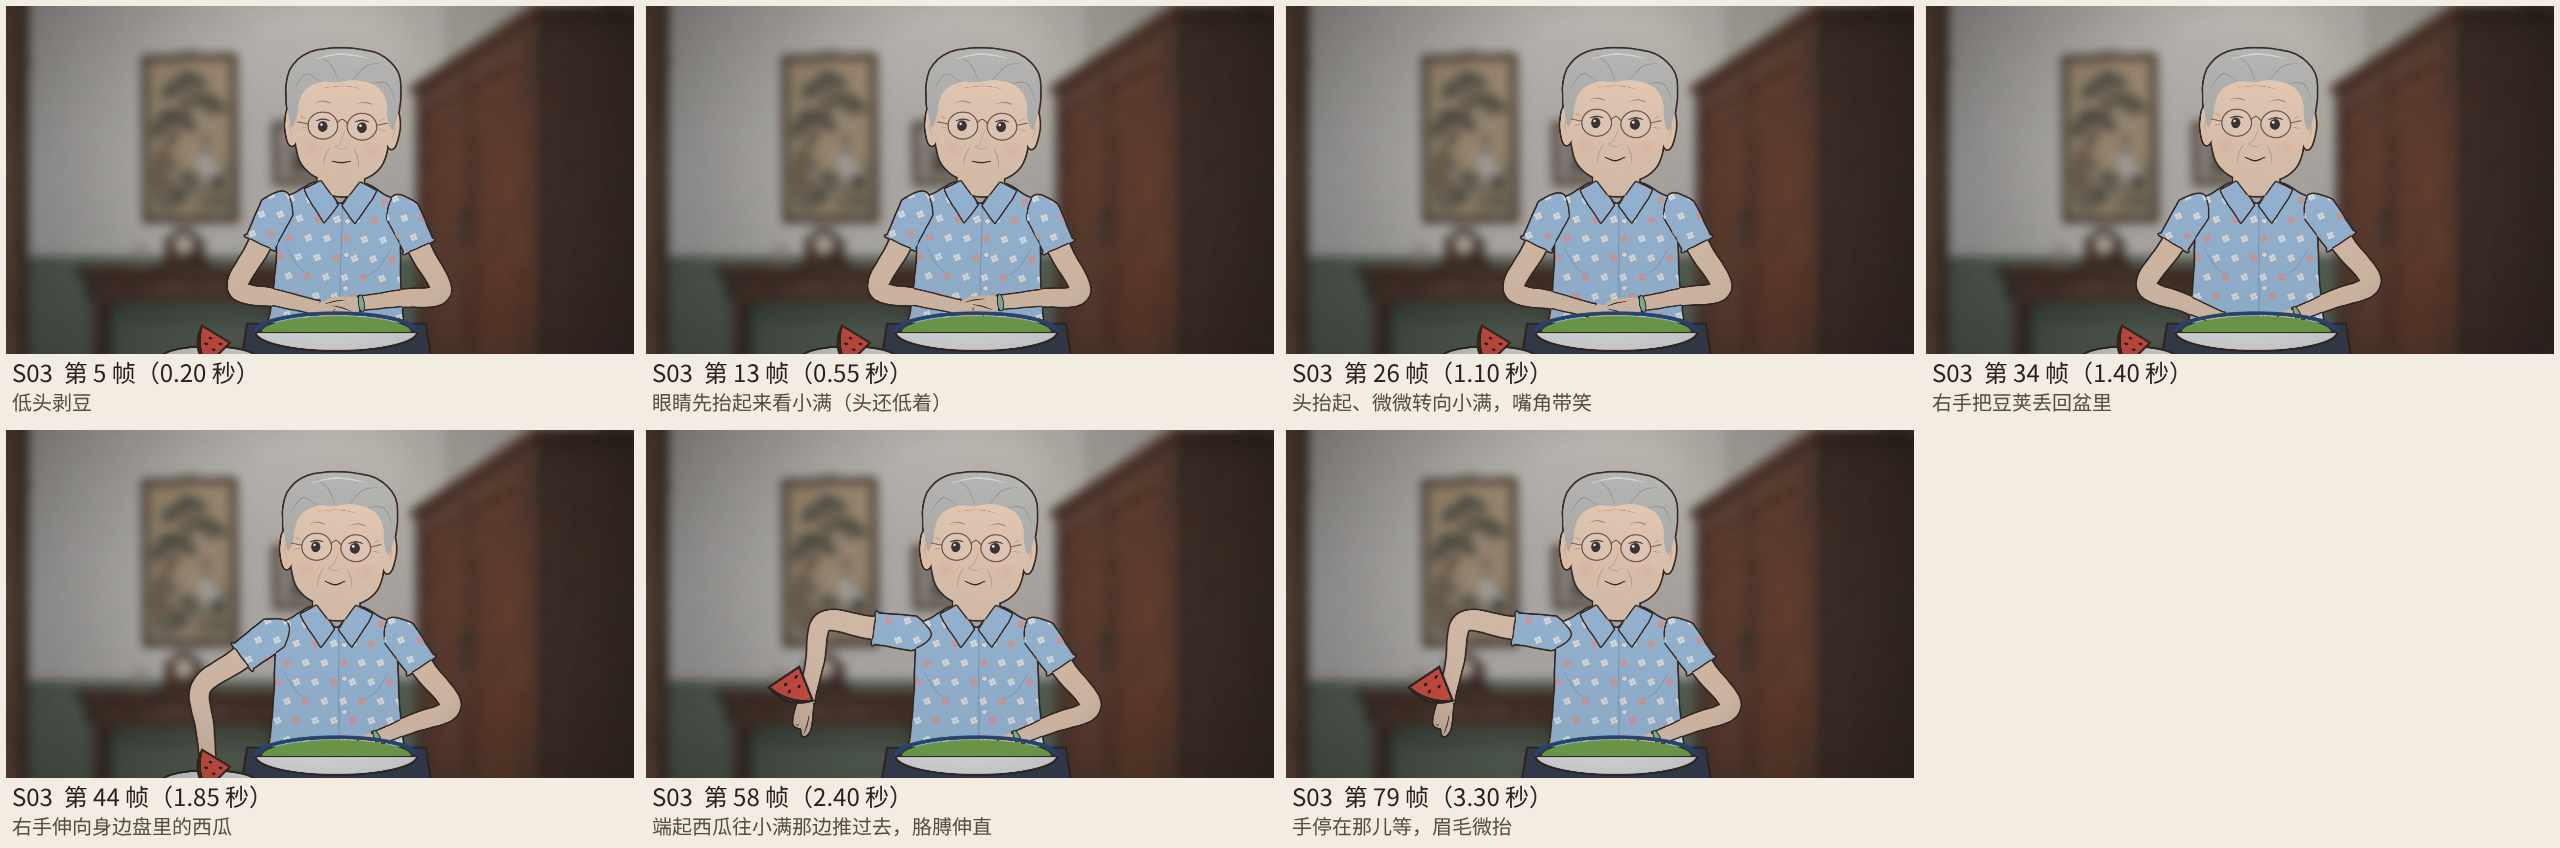
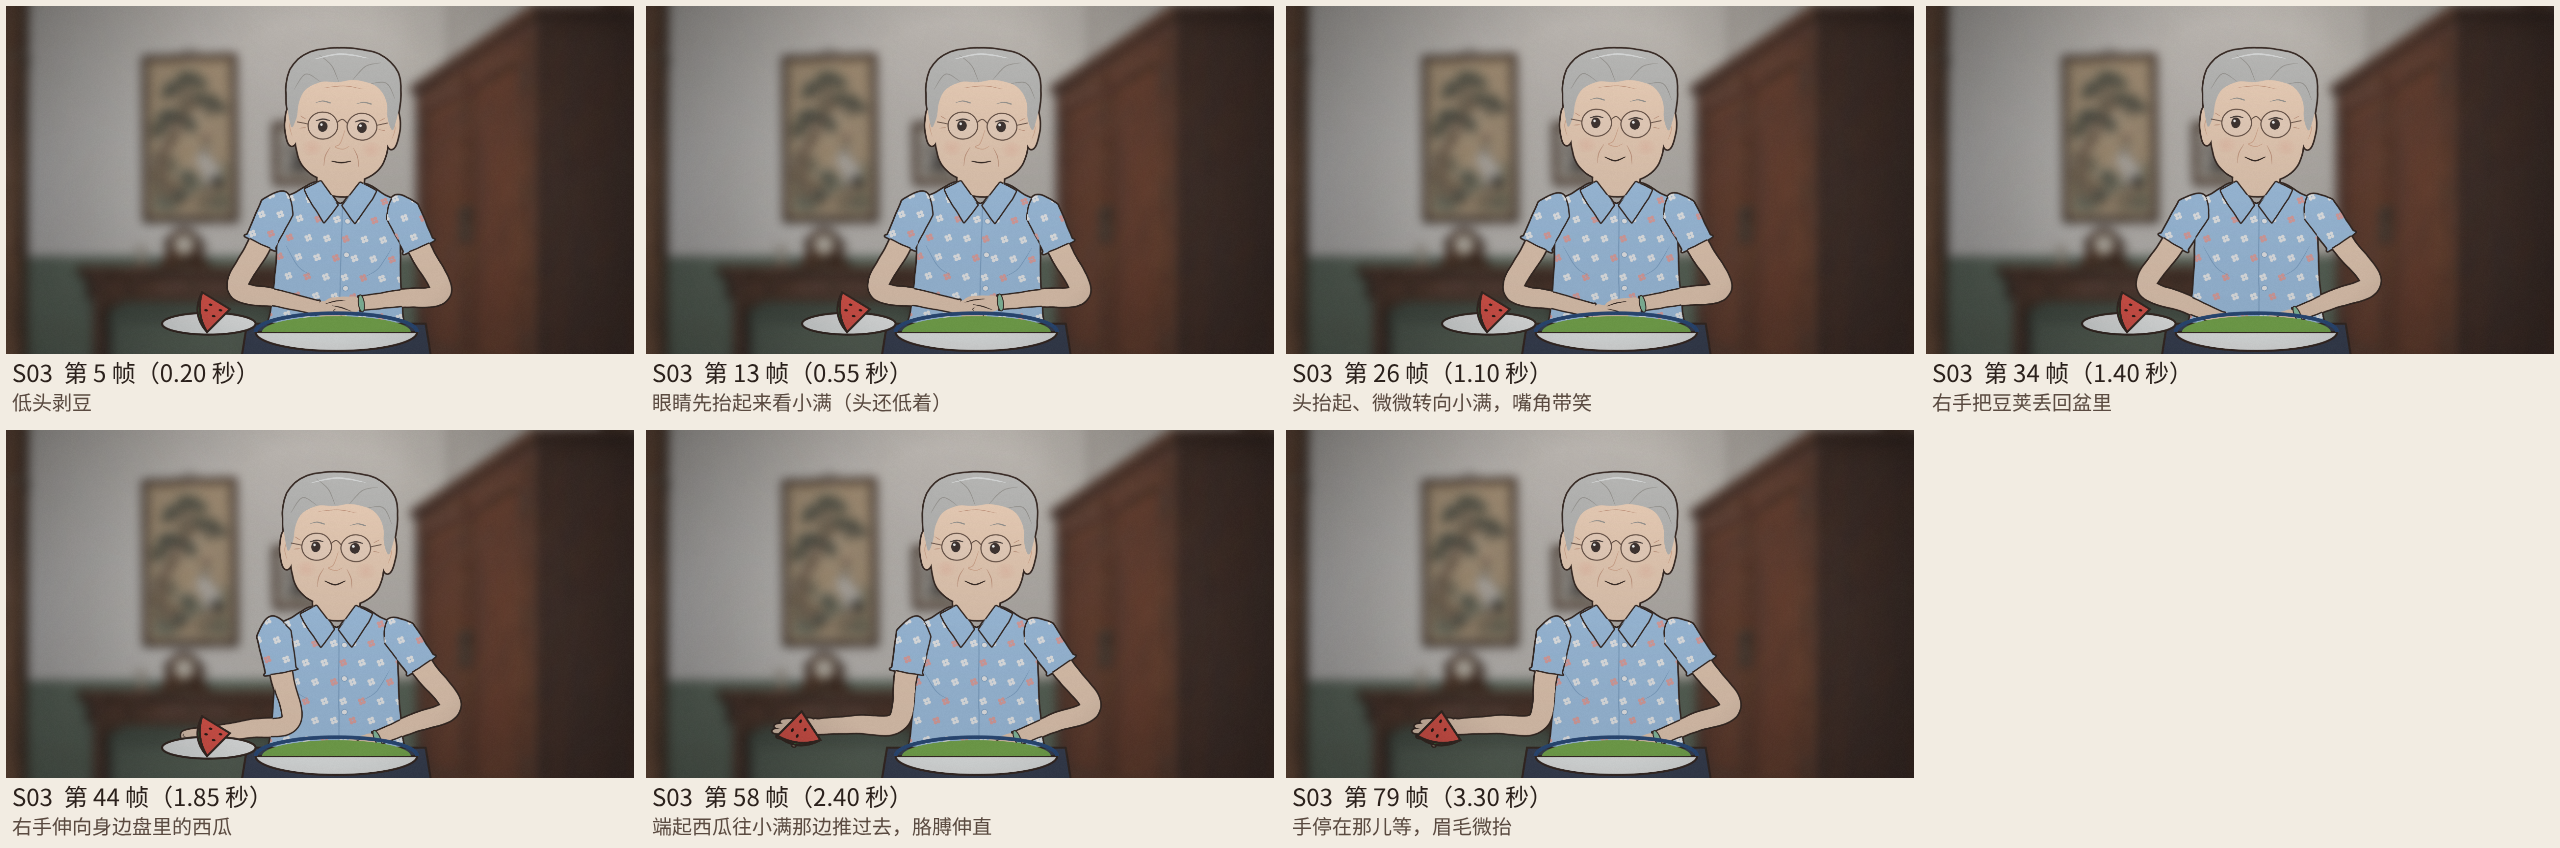
S03 动态分镜改托瓜姿势（肘朝下、瓜在掌心、盘子入画）；回复 Astra 画法细节和光照入口（中性底色、程序打一次光）
Claude-Session: https://claude.ai/code/session_018izVeBsCAWYGJUmZwpX2YC

diff --git a/js/anim/s03.js b/js/anim/s03.js
@@ -3,21 +3,24 @@ import { closeShot, grandmaFront } from './close.js';
 import { key, blink } from './kit.js';
 export const DURATION = 4;
 const K = 13, AT = [1010, 1480];
+const SH_L = [-14.6, -103.5];   // 奶奶右肩（画面左）
+function palm(h) { const dx = h[0] - SH_L[0], dy = h[1] - SH_L[1], d = Math.hypot(dx, dy); return [h[0] + dx / d * 5, h[1] + dy / d * 5 + 37 - 3, 0.1, 8.5]; }
 export function pose(t) {
   const look = key(t, [[0, [0, 0.6]], [0.4, [0, 0.6]], [0.6, [-0.7, -0.1], 'out'], [4, [-0.7, -0.1]]]);
   const lift = key(t, [[0.55, 0], [1.05, 1, 'io']]);
   const smile = key(t, [[0.7, 0.2], [1.1, 0.5], [3.4, 0.5], [3.9, 0.3]]);
   const brow = key(t, [[2.4, 0], [2.7, 0.35, 'out'], [4, 0.3]]);
   // 右手（画面左）：剥豆 → 豆荚丢回盆 → 往下伸去拿盘里的西瓜 → 端起来往左边推
-  const hL = key(t, [[0, [-5, -78]], [0.3, [-4, -79]], [1.0, [-4, -79]], [1.25, [-8, -76]], [1.45, [-8, -76]], [1.8, [-30, -70], 'io'], [1.9, [-30, -70]], [2.35, [-40, -86], 'out'], [4, [-40, -86]]]);
+  // 递瓜：肘往下收，手心朝上托着瓜，往画面左下方送过去（不是肘抬高、瓜挂在腕边）
+  const hL = key(t, [[0, [-5, -78]], [0.3, [-4, -79]], [1.0, [-4, -79]], [1.25, [-8, -76]], [1.45, [-8, -76]], [1.8, [-30, -78], 'io'], [1.9, [-30, -78]], [2.35, [-38, -80], 'out'], [4, [-38, -80]]]);
   const hR = key(t, [[0, [6, -79]], [0.3, [5, -80]], [1.0, [5, -80]], [1.4, [9, -77]], [4, [9, -77]]]);
   const melonOn = t >= 1.9;
   return {
     P: { y: 37, seated: true, head: { nod: 0.5 * (1 - lift), turn: -0.3 * lift, tilt: 0.04 * lift }, lean: 0.03 * (1 - lift),
-      armL: { hand: hL, hp: 'pinch' }, armR: { hand: hR, hp: 'pinch' },
+      armL: { hand: hL, hp: t >= 1.9 ? 'rest' : 'pinch', bend: t >= 1.45 ? 1 : -1 }, armR: { hand: hR, hp: 'pinch' },
       face: { look, smile, brow, open: 0.9, blink: blink(t, [3.1]) } },
-    melonAt: melonOn ? [hL[0] - 3, hL[1] + 37 - 4, 0.3, 9] : null,
-    plate: melonOn ? null : [-30, -30],
+    melonAt: melonOn ? palm(hL) : null,   // 瓜坐在掌心上：手腕沿小臂方向再往前 5 厘米、往上 3 厘米
+    plate: melonOn ? null : [-30, -38],                                 // 盘子放在身边的小凳上，取瓜那一下在画面里
   };
 }
 const shot = closeShot({
